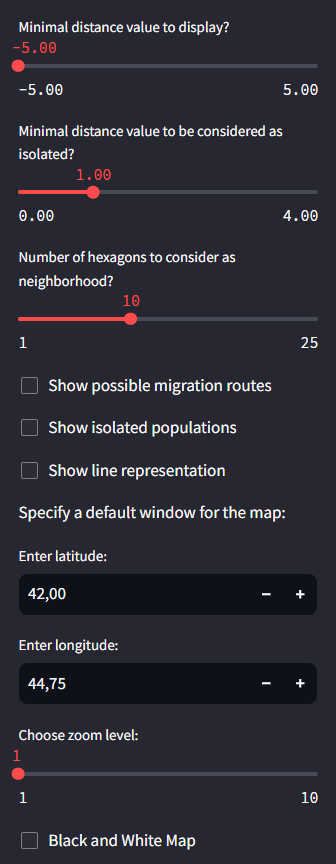
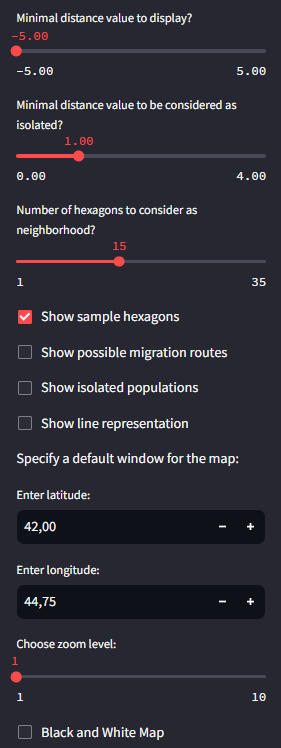
Update ReadMe

Changed region(s): [[0.0285, 0.0, 0.968, 1.0], [0.1423, 0.9532, 0.5979, 1.0]]

diff --git a/README.md b/README.md
@@ -152,18 +152,24 @@ This command should automatically open a browser window with the STARGEN applica
 - **Home Screen**: Customize the number of time bins and the resolution of the hexagonal zones. Access additional details through the buttons on the home screen.
 
   ![Home Screen](./img/home_screen.png "Home Screen")
+
 - **Main Screen**: The Sidebar on the main screen provides additional settings to adjust the visualization of genetic distances.
 
   ![Main Screen](./img/main_screen.png "Main Screen")
 
-  - **Display Settings**:
-    - **Which distances should be displayed**: Exclude distant hexagons below a set threshold.
-    - **Isolated populations**: Define the scaled distance value to identify isolated populations and migration routes.
-    - **Migration routes & isolated populations**: Draw possible migration routes and isolated hexagons on the map.
-    - **Distance lines**: Display underlying distance lines for a detailed view.
-    - **Default map window**: Set standard coordinates and zoom level for specific areas of interest.
+### **Display Settings**
 
-Now, you can explore genetic distances over time using the interactive folium map from STARGEN.
+- **Minimal distance value to display**: Exclude distant hexagons below a chosen threshold. Only distances **above** the selected value will be shown on the map.
+- **Minimal distance to define isolation**: Set the minimum distance a hexagon must have to all its neighbors to be considered **isolated**.
+- **Neighborhood size**: Define the number of neighboring hexagons to consider when calculating isolation. Increasing this value broadens the analysis but also increases computation time.
+- **Show sample hexagon counts**: Display the number of samples present within each visible hexagon.
+- **Show possible migration routes**: If isolated populations are detected, draw lines connecting each isolated hexagon to its closest neighbor, suggesting potential migration patterns.
+- **Show isolated populations**: Highlight isolated hexagons as grey hexagons on the map for easier identification.
+- **Show line representation**: Display underlying distance lines between hexagons for a more detailed view of genetic distances.
+- **Default map window**: Set the default map center coordinates and zoom level to focus on specific areas of interest.
+- **Black and white map**: Display the map in black and white to enhance color contrast and pattern visibility.
+
+Now, you can explore **genetic distances over time** using **STARGEN**.
 
 ## Repository Structure
 
@@ -175,6 +181,7 @@ Now, you can explore genetic distances over time using the interactive folium ma
 - **scr**: Contains all the scripts necessary for the tool.
 
   - `app.py`: Holds the code for the Streamlit application. It allows the interactive usage of the tool.
+  - `bigImage.py`: Contains function needed to create hihg resolution images of the map in the tool.
   - `func.py`: Contains all the necessary functions to run the `app.py` script.
   - `initial_run.py`: Script to be run in the initial setup phase to create the distance matrix from the `aDNA_30GPs.xlsx` file.
   - `visualize.py`: Contains all functions used to visualize the hexagons, lines, and legend on the Folium map.
@@ -190,14 +197,10 @@ STARGEN employs several advanced techniques for genetic data analysis, including
 - **LOWESS Curve Fitting**: Scales genetic distances to geographic distances for each time bin.
 - **Neighboring Hexagon Identification**: Identifies and visualizes genetic distances between hexagons.
 
-STARGEN has been validated by identifying known genetic barriers, such as the Bering Sea, and accurately detecting migration routes, such as those influenced by Norse maritime activities.
-
-For detailed methodology and results, refer to the supplementary material and figures included in the manuscript.
+STARGEN has been validated by identifying known genetic barriers. For detailed methodology and results, refer to the supplementary material and figures included in the manuscript.
 
 ## References
 
 A comprehensive list of references is included in the manuscript. Key references include foundational studies on genetic population structure, geographic patterns of genetic variation, and methodologies for spatial genetic analysis.
 
 ---
-
-This README provides detailed instructions for running STARGEN and replicating the results presented in the associated manuscript.
